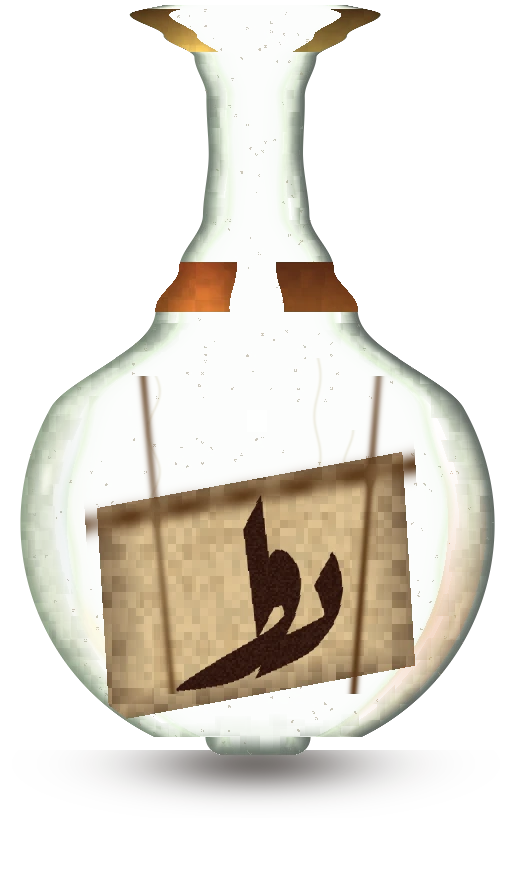
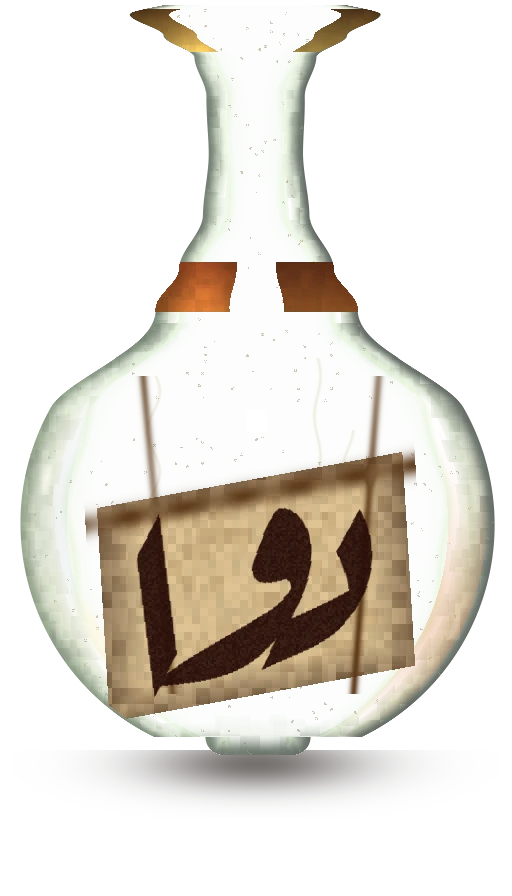
Join the flask label so دوا stays readable.
The previous overlap buried the dal inside the waw. Drop the alif onto the baseline and pull the dal until it touches, so the baked ink is one component and the three letters still read.

Changed region(s): [[0.25, 0.5625, 0.75, 0.7812]]

diff --git a/Source.V2/tools/bake_flask.py b/Source.V2/tools/bake_flask.py
@@ -177,8 +177,9 @@ def _mark():
     """دوا in Aref Ruqaa, shaped by Godot's text server.
 
     ffmpeg drawtext has no Arabic shaping and drew three hollow boxes.
-    tools/dawa_ink.png is that same font, RTL, with the swashes overlapped
-    just enough that the word is one connected mark. See render_dawa.gd.
+    tools/dawa_ink.png is that same font, RTL. The alif is dropped onto the
+    waw's tail and the dal is pulled until it touches, so the word is one
+    connected mark and the three letters stay readable. See render_dawa.gd.
     """
     path = os.path.join(os.path.dirname(os.path.abspath(__file__)), "dawa_ink.png")
     img = _load_rgba(path)
